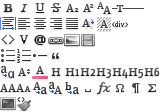
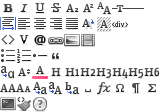
Added multiple test cases Updated Decoda methods to return the instance

Changed region(s): [[0.1875, 0.8571, 0.3125, 1.0]]

diff --git a/src/js/Decoda.js b/src/js/Decoda.js
@@ -37,7 +37,6 @@ var Decoda = new Class({
 		open: '[',
 		close: ']',
 		namespace: '',
-		defaults: true,
 		onSubmit: null,
 		onRender: null,
 		onInsert: null
@@ -68,10 +67,6 @@ var Decoda = new Class({
 			this.editor.addClass(this.options.namespace);
 		}
 
-		if (this.options.defaults) {
-			this.defaults();
-		}
-
 		// Add onSubmit event to the parent form
 		if (this.$events.submit) {
 			this.textarea.getParent('form').addEvent('submit', this.$events.submit[0].bind(this));
@@ -82,6 +77,7 @@ var Decoda = new Class({
 	 * Apply all filters and controls to the toolbar.
 	 *
 	 * @param {Array} blacklist
+	 * @return {Decoda}
 	 */
 	defaults: function(blacklist) {
 		Object.each(Decoda.filters, function(filter) {
@@ -91,6 +87,8 @@ var Decoda = new Class({
 		Object.each(Decoda.controls, function(control) {
 			this.addControls(control, blacklist);
 		}.bind(this));
+
+		return this;
 	},
 
 	/**
@@ -98,9 +96,12 @@ var Decoda = new Class({
 	 *
 	 * @param {Array} controls
 	 * @param {Array} blacklist
+	 * @return {Decoda}
 	 */
 	addControls: function(controls, blacklist) {
 		this.buildToolbar(controls, blacklist);
+
+		return this;
 	},
 
 	/**
@@ -108,9 +109,12 @@ var Decoda = new Class({
 	 *
 	 * @param {Array} filters
 	 * @param {Array} blacklist
+	 * @return {Decoda}
 	 */
 	addFilters: function(filters, blacklist) {
 		this.buildToolbar(filters, blacklist);
+
+		return this;
 	},
 
 	/**
@@ -118,6 +122,7 @@ var Decoda = new Class({
 	 *
 	 * @param {Array} commands
 	 * @param {Array} blacklist
+	 * @return {Decoda}
 	 */
 	buildToolbar: function(commands, blacklist) {
 		blacklist = Array.from(blacklist) || [];
@@ -185,6 +190,8 @@ var Decoda = new Class({
 		this.toolbar.grab(ul);
 
 		this.fireEvent('render', ul);
+
+		return this;
 	},
 
 	/**
@@ -213,6 +220,7 @@ var Decoda = new Class({
 	 * Insert a tag into the textarea. If a prompt is defined, grab the value.
 	 *
 	 * @param {Object} tag
+	 * @return {Decoda}
 	 */
 	insertTag: function(tag) {
 		var selected,
@@ -223,6 +231,11 @@ var Decoda = new Class({
 		// Grab a value from the prompt
 		if (tag.prompt) {
 			var answer = prompt(tag.prompt);
+
+			// Exit if prompt is cancelled (null)
+			if (answer === null) {
+				return this;
+			}
 
 			// Trigger callback on the value
 			if (tag.onInsert && typeOf(tag.onInsert) === 'function') {
@@ -264,6 +277,8 @@ var Decoda = new Class({
 		}
 
 		this.fireEvent('insert', markup);
+
+		return this;
 	},
 
 	/**
@@ -475,6 +490,12 @@ Decoda.controls = {
 			title: 'Clean',
 			onClick: function() {
 				this.clean();
+			}
+		},
+		help: {
+			title: 'Help',
+			onClick: function() {
+				alert('Todo');
 			}
 		}
 	},

diff --git a/tests/multiple.html b/tests/multiple.html
@@ -1,0 +1,72 @@
+<!DOCTYPE html>
+<html>
+<head>
+	<meta http-equiv="Content-Type" content="text/html; charset=UTF-8">
+	<title>Decoda - Multiple Instances</title>
+	<link type="text/css" rel="stylesheet" href="css/style.css">
+	<link type="text/css" rel="stylesheet" href="../src/css/decoda.css">
+	<script type="text/javascript" src="js/mootools-core-1.4.5.js"></script>
+	<script type="text/javascript" src="js/mootools-more-1.4.0.1.js"></script>
+	<script type="text/javascript" src="../src/js/Decoda.js"></script>
+</head>
+<body>
+	<div class="wrapper">
+		<form action="" method="post">
+			<div class="input">
+				<label for="textarea-1">Default Filters:</label>
+				<textarea id="textarea-1" cols="100" rows="10"></textarea>
+			</div>
+
+			<div class="input">
+				<label for="textarea-2">Block Filters:</label>
+				<textarea id="textarea-2" cols="100" rows="10"></textarea>
+			</div>
+
+			<div class="input">
+				<label for="textarea-3">Text Filters:</label>
+				<textarea id="textarea-3" cols="100" rows="10"></textarea>
+			</div>
+
+			<div class="input">
+				<label for="textarea-4">Email/Image/Url/Video Filters:</label>
+				<textarea id="textarea-4" cols="100" rows="10"></textarea>
+			</div>
+
+			<div class="input">
+				<label for="textarea-5">List/Quote/Code Filters:</label>
+				<textarea id="textarea-5" cols="100" rows="10"></textarea>
+			</div>
+
+			<div class="input">
+				<label for="textarea-6">All Controls:</label>
+				<textarea id="textarea-6" cols="100" rows="10"></textarea>
+			</div>
+		</form>
+	</div>
+
+	<script type="text/javascript">
+		window.addEvent('domready', function() {
+			new Decoda('textarea-1').addFilters(Decoda.filters.default);
+
+			new Decoda('textarea-2').addFilters(Decoda.filters.block);
+
+			new Decoda('textarea-3').addFilters(Decoda.filters.text);
+
+			new Decoda('textarea-4')
+				.addFilters(Decoda.filters.email)
+				.addFilters(Decoda.filters.image)
+				.addFilters(Decoda.filters.url)
+				.addFilters(Decoda.filters.video);
+
+			new Decoda('textarea-5')
+				.addFilters(Decoda.filters.list)
+				.addFilters(Decoda.filters.quote)
+				.addFilters(Decoda.filters.code);
+
+			new Decoda('textarea-6')
+				.addControls(Decoda.controls.editor)
+				.addControls(Decoda.controls.formatting);
+		});
+	</script>
+</body>
+</html>

diff --git a/src/css/decoda.css b/src/css/decoda.css
@@ -14,9 +14,13 @@
 	margin: 0;
 	padding: 0; }
 
+.decoda-editor textarea { width: 100%; }
+
 /* Toolbar */
 
-.decoda-toolbar { display: block; }
+.decoda-toolbar {
+	display: block;
+	margin-bottom: 5px; }
 
 .decoda-toolbar ul li {
 	z-index: 0;
@@ -129,6 +133,7 @@
 
 .decoda-editor .tag-preview span { background-position: 0 -96px; }
 .decoda-editor .tag-clean span { background-position: -16px -96px; }
+.decoda-editor .tag-help span { background-position: -32px -96px; }
 
 /* Menu Icons */
 
@@ -150,7 +155,9 @@
 	vertical-align: middle;
 	margin-right: 5px;
 	height: 16px;
-	width: 16px; }
+	width: 16px;
+	position: relative;
+	top: -1px; }
 
 .decoda-editor .menu-h1 span { background-image: url("../img/icons-black.png"); }
 .decoda-editor .menu-h1 .heading-h1 span { background-position: -64px -64px; }

diff --git a/tests/css/style.css b/tests/css/style.css
@@ -1,0 +1,11 @@
+
+body {
+	padding: 25px;
+	font: normal 12px/125% Verdana, Arial, sans-serif; }
+
+.input { margin-bottom: 25px; }
+
+.input label {
+	font-weight: bold;
+	margin-bottom: 10px;
+	display: block; }

diff --git a/tests/index.html b/tests/index.html
@@ -21,7 +21,7 @@
 
 	<script type="text/javascript">
 		window.addEvent('domready', function() {
-			new Decoda('textarea');
+			new Decoda('textarea').defaults();
 		});
 	</script>
 </body>
